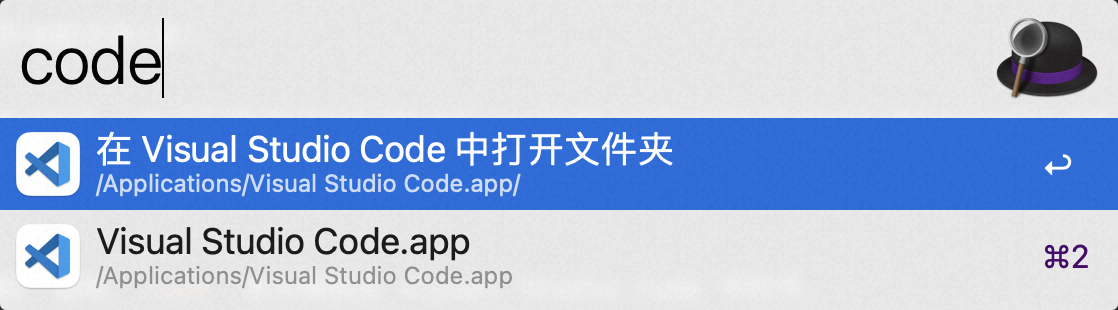
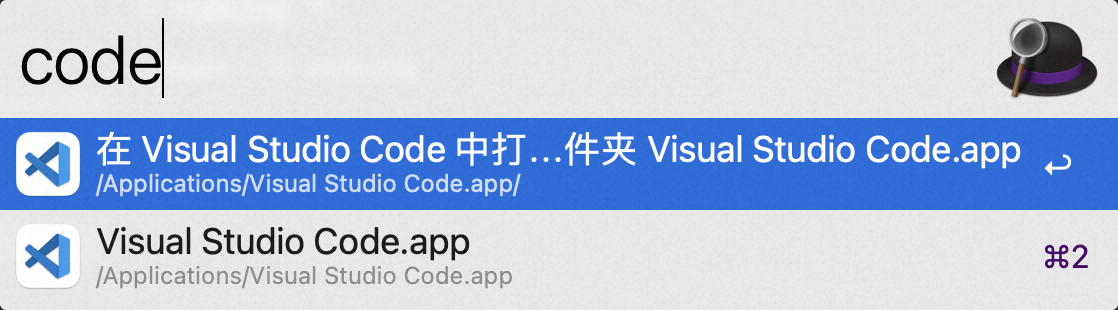
feat: 优化标题信息。

Changed region(s): [[0.4562, 0.4065, 0.9123, 0.5516]]

diff --git a/Workflow/filter_vscode.js b/Workflow/filter_vscode.js
@@ -17,7 +17,7 @@ const { Result } = require('./lib/alfred');
 const { Cache } = require('./lib/cache');
 const { readFileSync } = require('./lib/file');
 const { finder } = require('./lib/finder');
-const { summaryPath } = require('./lib/path');
+const { basename, summaryPath } = require('./lib/path');
 
 ObjC.import("stdlib");
 const historyCount = Number.parseInt($.getenv("HISTORY_COUNT"));
@@ -38,7 +38,7 @@ function run(args) {
         }
         result.add({
           uid: key,
-          title: '在 Visual Studio Code 中打开文件' + suffix,
+          title: `在 Visual Studio Code 中打开文件${suffix} ${basename(key)}`,
           subtitle: summaryPath(key, 70),
           arg: key,
         });
@@ -62,7 +62,7 @@ function run(args) {
     }
     result.add({
       uid: 'finder',
-      title: '在 Visual Studio Code 中打开文件' + suffix,
+      title: `在 Visual Studio Code 中打开文件${suffix} ${basename(path)}`,
       subtitle: summaryPath(path, 70),
       arg: path,
     });

diff --git a/Workflow/lib/path.js b/Workflow/lib/path.js
@@ -1,6 +1,24 @@
 #! /usr/bin/osascript -l JavaScript
 
 /**
+ * 解析指定路径的名称。
+ * @param {string} path 要解析名称的路径
+ */
+function basename(path) {
+  if (!path) {
+    return '';
+  }
+  let end = path.endsWith('/') ? path.length - 2 : path.length - 1;
+  let idx = path.lastIndexOf('/', end);
+  if (idx < 0) {
+    idx = 0;
+  } else {
+    idx++;
+  }
+  return path.slice(idx, end + 1);
+}
+
+/**
  * 对当前路径进行摘要，尽量确保结果的最大长度。
  *
  * @param {string} path 要摘要的路径。
@@ -60,9 +78,14 @@ function summaryPath(path, maxLength) {
   return `${prefix}${splitter}${suffix}`;
 }
 
-module.exports = { summaryPath };
+module.exports = { basename, summaryPath };
 
 /*
+
+console.log(basename('partA/PartB'))
+console.log(basename('/partA/PartB/'))
+console.log(basename('PartB'))
+console.log(basename('PartB/'))
 
 console.log(summaryPath('/PartA/PartB/PartC/PartD/', 0))
 console.log(summaryPath('/PartA/PartB/PartC/PartD/', 20))
